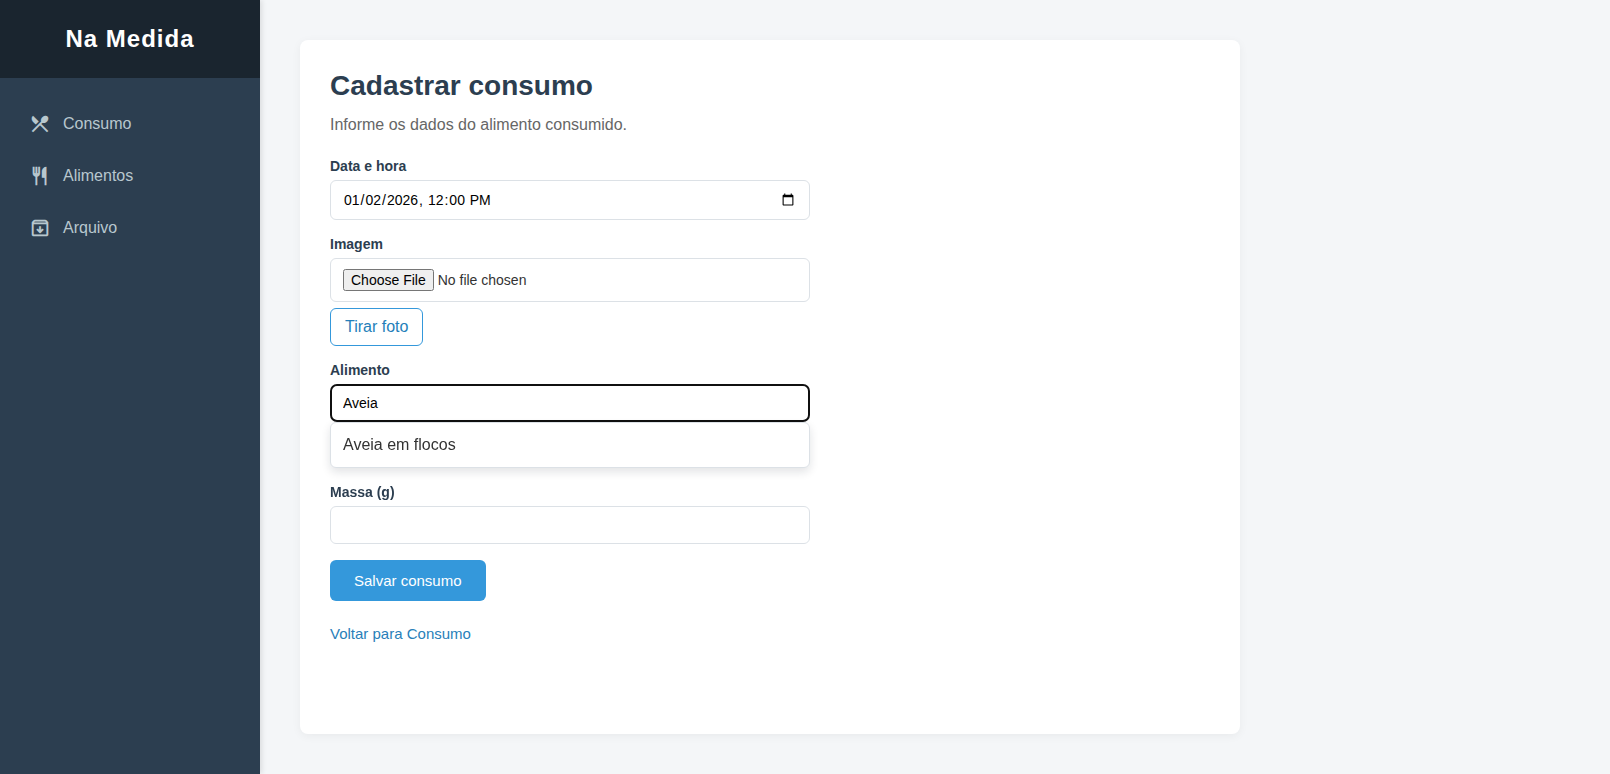
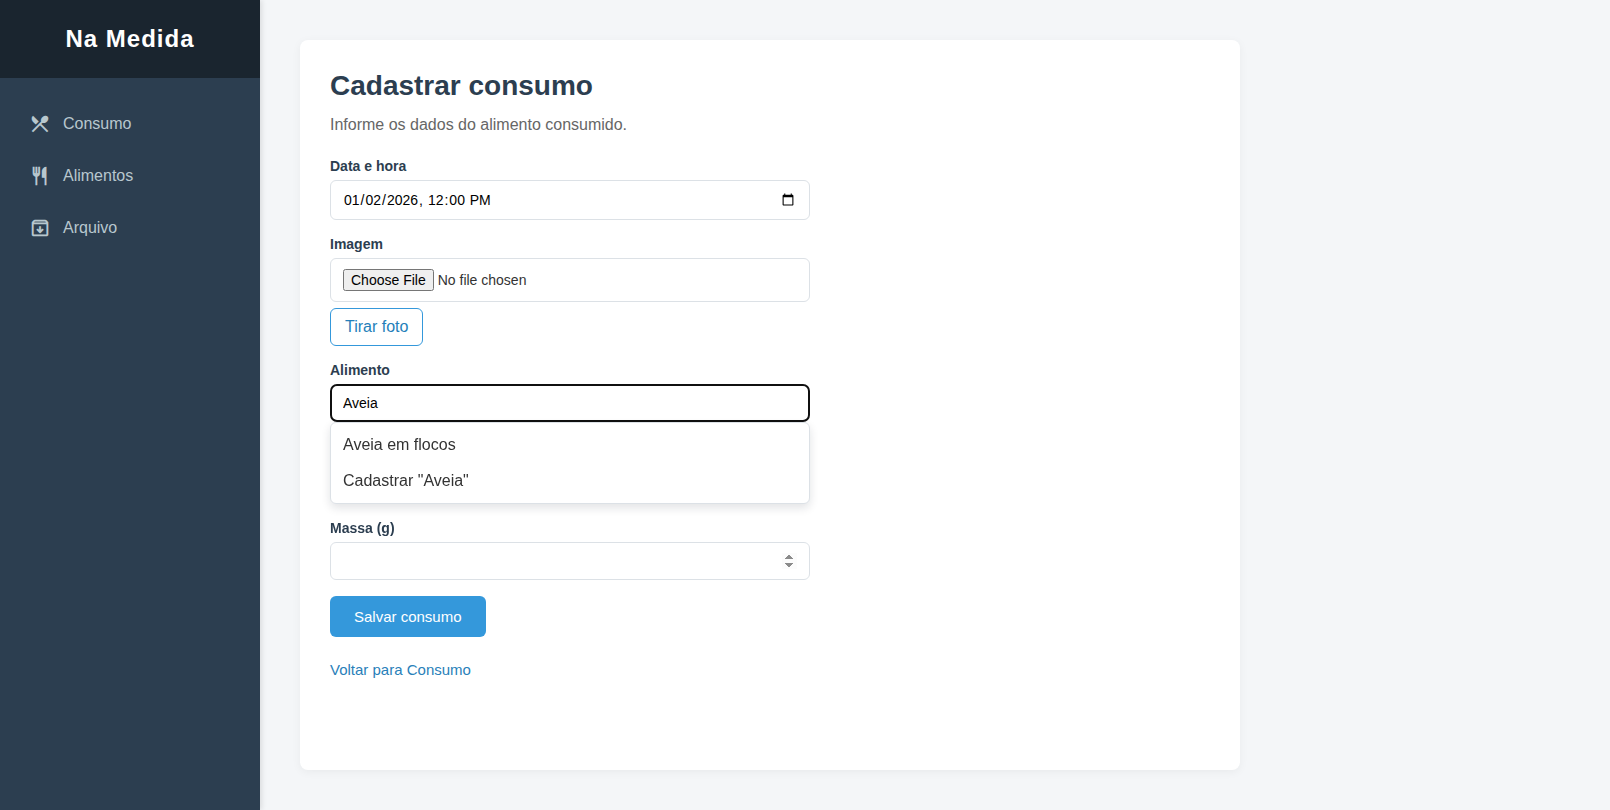
Adicionar cadastro inline de alimento no consumo

diff --git a/fonte/pages/CadastroConsumo.svelte b/fonte/pages/CadastroConsumo.svelte
@@ -1,6 +1,6 @@
 <script>
   import { onDestroy, onMount } from 'svelte';
-  import { adicionarConsumo, listarAlimentos } from '../db.js';
+  import { adicionarAlimento, adicionarConsumo, listarAlimentos } from '../db.js';
 
   let { onSalvar, onVoltar } = $props();
   let alimentos = $state([]);
@@ -12,11 +12,23 @@
   let alimentoBusca = $state('');
   let sugestoesAbertas = $state(false);
   let sugestaoAtiva = $state(-1);
+  let modoCadastroAlimento = $state(false);
+  let tabelaNutricional = $state({
+    valorEnergetico: '',
+    gorduras: '',
+    carboidratos: '',
+    proteinas: '',
+    fibras: ''
+  });
   let massa = $state('');
   let erro = $state('');
   let alimentosFiltrados = $derived(
     alimentos.filter((alimento) => alimento.nome.toLocaleLowerCase('pt-BR').includes(alimentoBusca.trim().toLocaleLowerCase('pt-BR')))
   );
+  let mostrarOpcaoCadastro = $derived(
+    Boolean(alimentoBusca.trim()) && !alimentos.some((alimento) => alimento.nome.trim().toLocaleLowerCase('pt-BR') === alimentoBusca.trim().toLocaleLowerCase('pt-BR'))
+  );
+  let quantidadeSugestoes = $derived(alimentosFiltrados.length + Number(mostrarOpcaoCadastro));
 
   onMount(async () => {
     alimentos = await listarAlimentos();
@@ -36,6 +48,7 @@
   function atualizarBuscaAlimento(event) {
     alimentoBusca = event.currentTarget.value;
     alimentoId = '';
+    modoCadastroAlimento = false;
     sugestoesAbertas = true;
     sugestaoAtiva = -1;
     erro = '';
@@ -49,23 +62,34 @@
     erro = '';
   }
 
+  function iniciarCadastroAlimento() {
+    alimentoBusca = alimentoBusca.trim();
+    alimentoId = '';
+    modoCadastroAlimento = true;
+    sugestoesAbertas = false;
+    sugestaoAtiva = -1;
+    erro = '';
+  }
+
   function navegarSugestoes(event) {
     if (event.key === 'Escape') {
       sugestoesAbertas = false;
       return;
     }
 
-    if (!sugestoesAbertas || alimentosFiltrados.length === 0) return;
+    if (!sugestoesAbertas || quantidadeSugestoes === 0) return;
 
     if (event.key === 'ArrowDown') {
       event.preventDefault();
-      sugestaoAtiva = (sugestaoAtiva + 1) % alimentosFiltrados.length;
+      sugestaoAtiva = (sugestaoAtiva + 1) % quantidadeSugestoes;
     } else if (event.key === 'ArrowUp') {
       event.preventDefault();
-      sugestaoAtiva = (sugestaoAtiva - 1 + alimentosFiltrados.length) % alimentosFiltrados.length;
+      sugestaoAtiva = (sugestaoAtiva - 1 + quantidadeSugestoes) % quantidadeSugestoes;
     } else if (event.key === 'Enter') {
       event.preventDefault();
-      selecionarAlimento(alimentosFiltrados[sugestaoAtiva >= 0 ? sugestaoAtiva : 0]);
+      const indice = sugestaoAtiva >= 0 ? sugestaoAtiva : 0;
+      if (indice < alimentosFiltrados.length) selecionarAlimento(alimentosFiltrados[indice]);
+      else iniciarCadastroAlimento();
     }
   }
 
@@ -75,7 +99,18 @@
 
   async function salvarConsumo(event) {
     event.preventDefault();
-    const alimento = alimentos.find((item) => String(item.id) === alimentoId);
+    let alimento = alimentos.find((item) => String(item.id) === alimentoId);
+    if (modoCadastroAlimento) {
+      const alimentoNovo = {
+        nome: alimentoBusca.trim(),
+        tabelaNutricional: Object.fromEntries(
+          Object.entries(tabelaNutricional).map(([chave, valor]) => [chave, Number(valor) || 0])
+        )
+      };
+      const id = await adicionarAlimento(alimentoNovo);
+      alimento = { ...alimentoNovo, id };
+    }
+
     if (!alimento) {
       erro = 'Selecione um alimento cadastrado.';
       return;
@@ -133,14 +168,18 @@
         role="combobox"
         aria-autocomplete="list"
         aria-controls="sugestoes-alimentos"
-        aria-expanded={sugestoesAbertas && alimentosFiltrados.length > 0}
-        aria-activedescendant={sugestaoAtiva >= 0 ? `sugestao-alimento-${alimentosFiltrados[sugestaoAtiva]?.id}` : undefined}
+        aria-expanded={sugestoesAbertas && quantidadeSugestoes > 0}
+        aria-activedescendant={sugestaoAtiva < 0
+          ? undefined
+          : sugestaoAtiva < alimentosFiltrados.length
+            ? `sugestao-alimento-${alimentosFiltrados[sugestaoAtiva]?.id}`
+            : 'sugestao-cadastro-alimento'}
         oninput={atualizarBuscaAlimento}
         onkeydown={navegarSugestoes}
         onfocus={() => { if (!alimentoId) sugestoesAbertas = true; }}
         required
       />
-      {#if sugestoesAbertas && !alimentoId && alimentosFiltrados.length > 0}
+      {#if sugestoesAbertas && !alimentoId && quantidadeSugestoes > 0}
         <ul id="sugestoes-alimentos" class="sugestoes-alimentos" role="listbox">
           {#each alimentosFiltrados as alimento, indice (alimento.id)}
             <li
@@ -161,7 +200,51 @@
               {alimento.nome}
             </li>
           {/each}
+          {#if mostrarOpcaoCadastro}
+            <li
+              id="sugestao-cadastro-alimento"
+              role="option"
+              tabindex="-1"
+              aria-selected={sugestaoAtiva === alimentosFiltrados.length}
+              onmouseenter={() => { sugestaoAtiva = alimentosFiltrados.length; }}
+              onmousedown={(event) => event.preventDefault()}
+              onkeydown={(event) => {
+                if (event.key === 'Enter' || event.key === ' ') {
+                  event.preventDefault();
+                  iniciarCadastroAlimento();
+                }
+              }}
+              onclick={iniciarCadastroAlimento}
+            >
+              Cadastrar "{alimentoBusca.trim()}"
+            </li>
+          {/if}
         </ul>
+      {/if}
+      {#if modoCadastroAlimento}
+        <fieldset class="tabela-nutricional">
+          <legend>Tabela nutricional (por 100g)</legend>
+          <div class="form-row">
+            <label for="novo-valor-energetico">Valor energético (kcal)</label>
+            <input id="novo-valor-energetico" type="number" min="0" step="0.1" bind:value={tabelaNutricional.valorEnergetico} />
+          </div>
+          <div class="form-row">
+            <label for="novo-valor-gorduras">Gorduras (g)</label>
+            <input id="novo-valor-gorduras" type="number" min="0" step="0.1" bind:value={tabelaNutricional.gorduras} />
+          </div>
+          <div class="form-row">
+            <label for="novo-valor-carboidratos">Carboidratos (g)</label>
+            <input id="novo-valor-carboidratos" type="number" min="0" step="0.1" bind:value={tabelaNutricional.carboidratos} />
+          </div>
+          <div class="form-row">
+            <label for="novo-valor-proteinas">Proteínas (g)</label>
+            <input id="novo-valor-proteinas" type="number" min="0" step="0.1" bind:value={tabelaNutricional.proteinas} />
+          </div>
+          <div class="form-row">
+            <label for="novo-valor-fibras">Fibras (g)</label>
+            <input id="novo-valor-fibras" type="number" min="0" step="0.1" bind:value={tabelaNutricional.fibras} />
+          </div>
+        </fieldset>
       {/if}
       {#if alimentos.length === 0}
         <small>Nenhum alimento cadastrado.</small>

diff --git a/testes/consumo.spec.js b/testes/consumo.spec.js
@@ -128,3 +128,29 @@ test('exibe o resumo nutricional de hoje e a média dos sete dias anteriores', a
 
   await expect(page).toHaveScreenshot('resumo-nutricional.png', { fullPage: true });
 });
+
+test('cadastra um alimento novo com tabela nutricional ao salvar o consumo', async ({ page }) => {
+  await page.clock.install({ time: new Date('2026-01-02T12:00:00') });
+  await page.goto('/');
+  await page.getByRole('button', { name: /Alimentos/ }).click();
+  await page.getByRole('button', { name: 'Cadastrar alimento' }).click();
+  await page.getByLabel('Nome').fill('Aveia em flocos');
+  await page.getByRole('button', { name: 'Salvar alimento' }).click();
+
+  await page.getByRole('button', { name: /Consumo/ }).click();
+  await page.getByRole('button', { name: 'Cadastrar consumo' }).click();
+  await page.getByLabel('Data e hora').fill('2026-01-02T12:34');
+  await page.getByLabel('Alimento').fill('Aveia');
+  await page.getByRole('option', { name: 'Cadastrar "Aveia"' }).click();
+
+  await page.getByLabel('Valor energético (kcal)').fill('389');
+  await page.getByLabel('Gorduras (g)').fill('7');
+  await page.getByLabel('Carboidratos (g)').fill('66');
+  await page.getByLabel('Proteínas (g)').fill('17');
+  await page.getByLabel('Fibras (g)').fill('11');
+  await page.getByLabel('Massa (g)').fill('45');
+  await expect(page).toHaveScreenshot('cadastro-consumo-alimento-novo.png', { fullPage: true });
+  await page.getByRole('button', { name: 'Salvar consumo' }).click();
+
+  await expect(page).toHaveScreenshot('consumo-com-alimento-cadastrado.png', { fullPage: true });
+});
